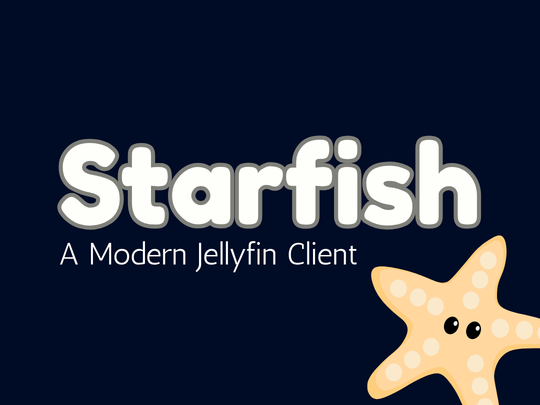
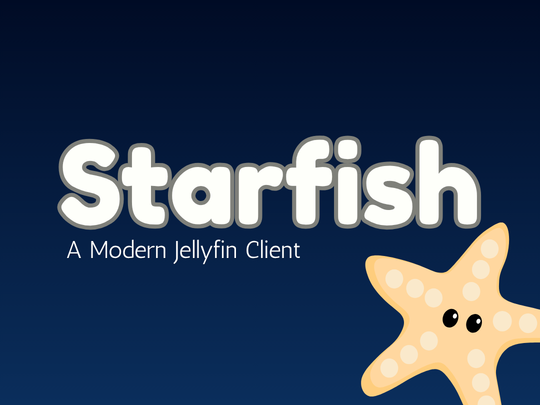
Consolidated all remaining date format functions that have spread throughout the application into the new DateTime helper module. Updated all channel and splash graphic size variants.

diff --git a/.to-do.md b/.to-do.md
@@ -27,20 +27,12 @@ Trailers
 - refresh is too eager
 
 # episode list
-
-Placeholder cards
-create tv and movie variants for wide and poster, instead of a single generic one
-
-
-
 - watched indicator display on homescreen
 - video options
 
 
 # home page
 - go to item, come back, should (1) maintain position where you were -and- (2) update any new items with progress, or updated the progress on an existing item
-
-tv episode list, season card, click to go to episode page, image flips
 
 Fantasy Island episode list, lots of "..." in weird places
 
@@ -72,4 +64,13 @@ Fantasy Island episode list, lots of "..." in weird places
 
 Rick and Morty -- identify
 
-Common date formatter
+experiment... mediatoolbar, dynamic button, on focus use primary button
+tvepisode background image, lower quality, then higher quality load, try just doing higher quality load, check movie bg load, because that's quick, so is tv season bg load
+
+# library view
+- sort by
+    - title
+    - year
+- order
+    - ascending
+    - descending

diff --git a/AGENTS.md b/AGENTS.md
@@ -15,6 +15,7 @@
 - Assign color fields with integer hex literals, such as `m.title.color = &h0F1A2AFF`, not string values like `"0x0F1A2AFF"`.
 - Do not use `FormatJson()` for outbound API request bodies. Roku lowercases JSON object keys during serialization, which breaks case-sensitive API fields.
 - API response fields are PascalCase; access API data with PascalCase field names such as `item.CollectionType`, not mixed fallback expressions like `FirstNonEmpty([item.CollectionType, item.collectionType], "")`.
+- For date or time formatting/parsing helpers, use the existing functions in `source/DateTime.brs`; add new shared date helpers there instead of creating component-local date formatting functions.
 
 ## BrightScript naming
 
